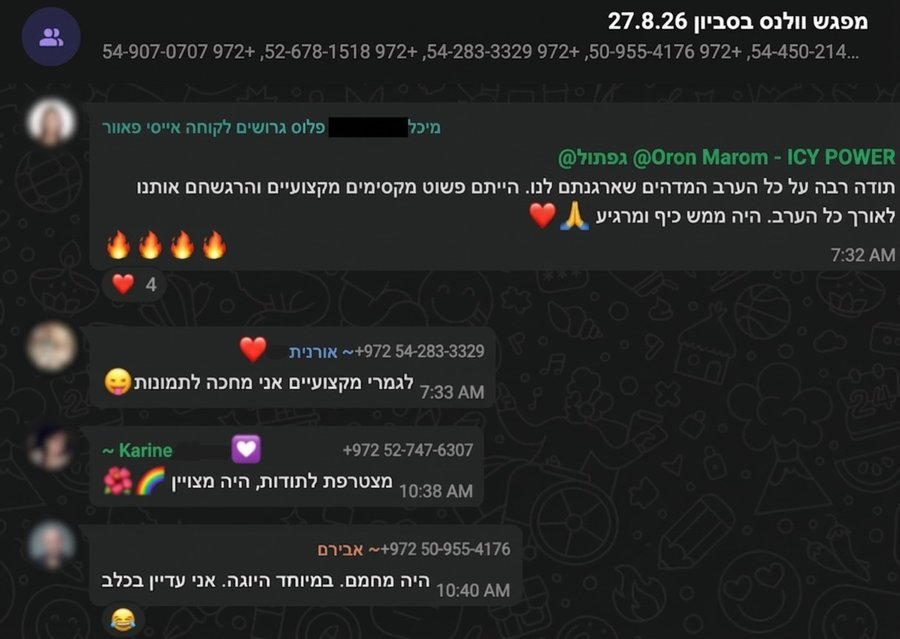
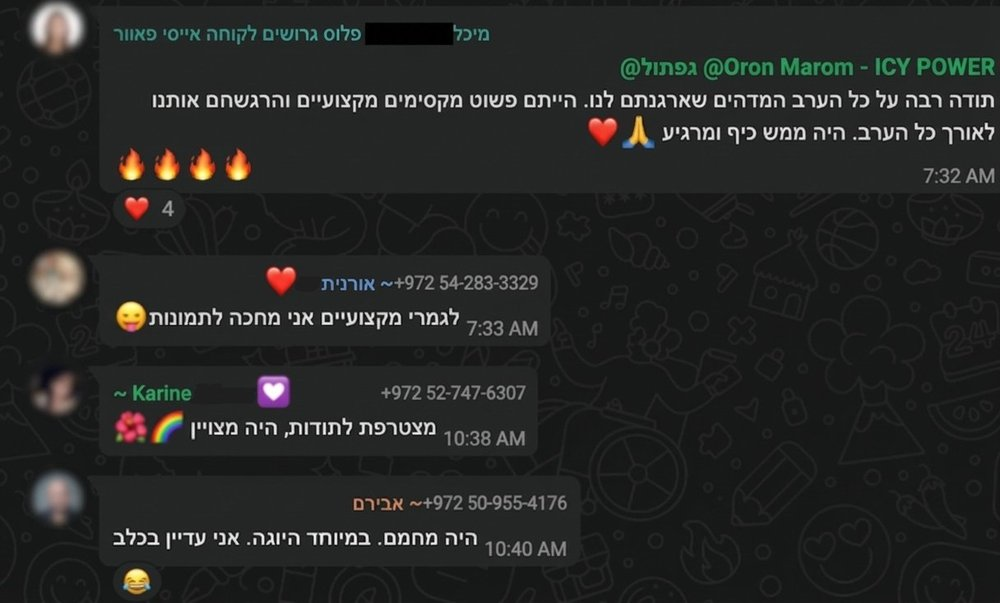
Replace the wa-reviews testimonial screenshot and enlarge it (#115)
Swapped assets/img/wa-review-5.jpg for the new WhatsApp group
screenshot Eldar attached. Added a .wide modifier class (420px desktop,
260px mobile, vs. the other cards' shared 300px/200px) so this
landscape screenshot renders noticeably bigger than the rest, applied
only to this one card.

Fixed a real bug found while wiring this up: main.js's renderWa()
overwrote each card's className outright on every render
(card.className = 'wa-shot-card pos-' + offset), which would have
silently stripped the new .wide class the moment the carousel
advanced past it once. Now preserves any existing "wide" modifier
across re-renders instead of wiping it.

Claude-Session: https://claude.ai/code/session_01D1Zn2omzX7sB74Pgx1r4rg

diff --git a/assets/styles.css b/assets/styles.css
@@ -359,6 +359,10 @@ img{max-width:100%;display:block}
   cursor:pointer;
 }
 .wa-shot-card img{width:100%;height:auto;display:block}
+/* landscape testimonials (a wide group-chat screenshot, not the usual
+   tall single-message one) render small at the shared 300px card width
+   since their height scales down with it - widen just this variant */
+.wa-shot-card.wide{width:420px}
 /* pos-0: front card fully visible */
 .wa-shot-card.pos-0{transform:translateX(0) scale(1);z-index:5;opacity:1;pointer-events:none}
 /* pos-1/-1: side cards shifted just enough to peek ~35% from behind the center card */
@@ -379,6 +383,7 @@ img{max-width:100%;display:block}
 @media(max-width:680px){
   .wa-stage{width:min(300px,88vw);height:320px}
   .wa-shot-card{width:200px}
+  .wa-shot-card.wide{width:260px}
   .wa-shot-card.pos-1{transform:translateX(-72px) scale(.76)}
   .wa-shot-card.pos--1{transform:translateX(72px) scale(.76)}
   .wa-shot-card.pos-2{transform:translateX(-140px) scale(.54)}

diff --git a/index.html b/index.html
@@ -225,7 +225,7 @@
         <div class="wa-shot-card"><img src="assets/img/wa-review-2.jpg" alt="ביקורת מלקוח" loading="lazy"></div>
         <div class="wa-shot-card"><img src="assets/img/wa-review-3.jpg" alt="ביקורת מלקוח" loading="lazy"></div>
         <div class="wa-shot-card"><img src="assets/img/wa-review-4.jpg" alt="ביקורת מלקוח" loading="lazy"></div>
-        <div class="wa-shot-card"><img src="assets/img/wa-review-5.jpg" alt="ביקורת מלקוח" loading="lazy"></div>
+        <div class="wa-shot-card wide"><img src="assets/img/wa-review-5.jpg" alt="ביקורת מלקוח" loading="lazy"></div>
       </div>
       <button class="wa-nav next" aria-label="הבא">
         <svg viewBox="0 0 24 24" fill="none" stroke="currentColor" stroke-width="2.5" stroke-linecap="round" stroke-linejoin="round"><path d="m15 18-6-6 6-6"/></svg>

diff --git a/assets/main.js b/assets/main.js
@@ -355,7 +355,10 @@
         var offset = i - waActive;
         if (offset > waCount / 2) offset -= waCount;
         if (offset < -waCount / 2) offset += waCount;
-        card.className = 'wa-shot-card pos-' + offset;
+        // preserve any size modifier (e.g. "wide") instead of overwriting
+        // the whole className, which would silently strip it every render
+        var wide = card.classList.contains('wide');
+        card.className = 'wa-shot-card pos-' + offset + (wide ? ' wide' : '');
       });
     }
     function goWa(delta) {
